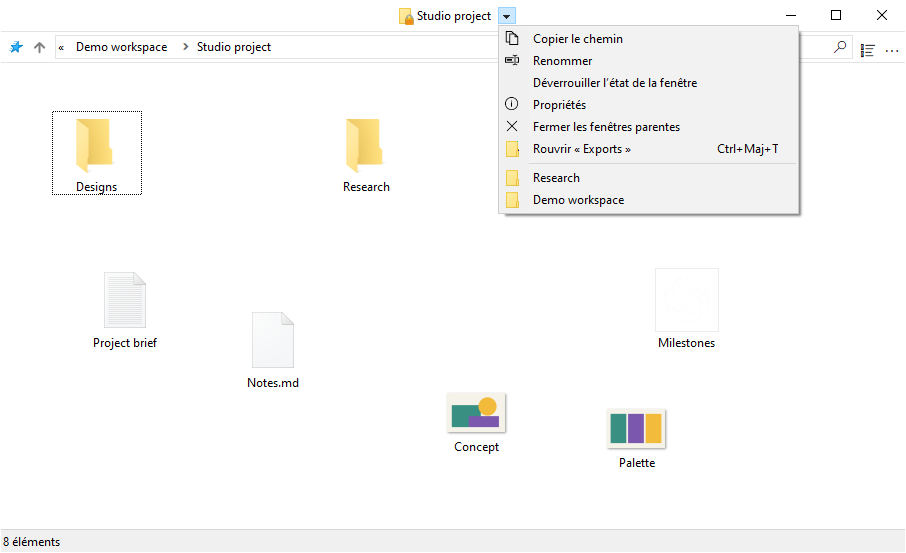
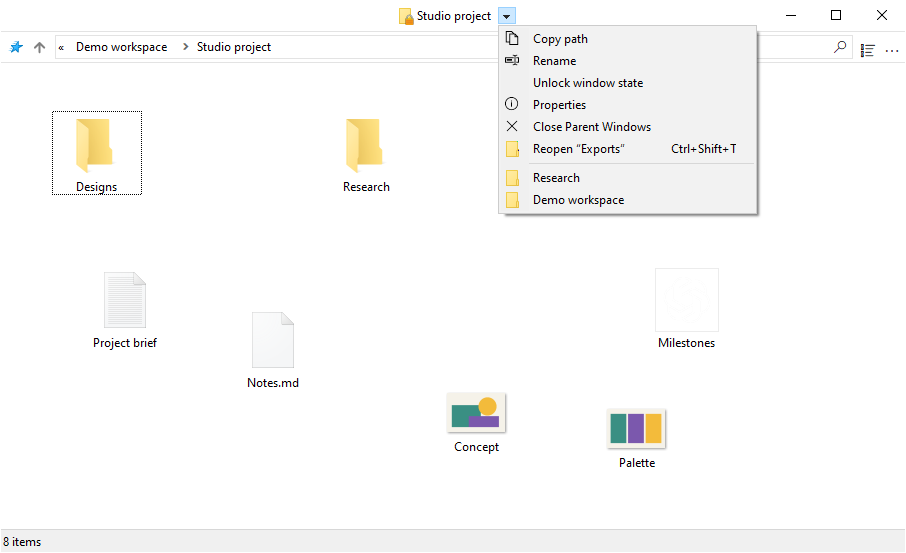
docs: Add bilingual window demos and a latest-release link.
Use English screenshots on the site and preserve the French originals. Add ScreenToGif move/resize demos in both languages, document the padlock badge with title close-ups, and link to the latest release from the site header.

Changed region(s): [[0.7417, 0.0615, 0.8962, 0.3996], [0.5872, 0.0615, 0.7726, 0.2767], [0.0, 0.953, 0.0618, 1.0]]

diff --git a/docs/user-guide.md b/docs/user-guide.md
@@ -69,6 +69,19 @@ Drag in the file area, on its background or an item, using these defaults:
 | Move the window | Alt + left drag |
 | Resize from the bottom-right corner | Alt + right drag |
 
+<details>
+<summary>See the gestures in action</summary>
+
+**Move the window — Alt + left drag**
+
+![Moving a folder window by holding Alt and dragging in the file area with the left mouse button.](images/move-window.gif)
+
+**Resize the window — Alt + right drag**
+
+![Resizing a folder window by holding Alt and dragging in the file area with the right mouse button.](images/resize-window.gif)
+
+</details>
+
 The selection is preserved. Escape cancels the gesture and restores the original
 geometry. Text fields, headers, scrollbars, toolbars and menus keep their normal
 behavior. Alt + double-click on an item opens its Properties.
@@ -91,11 +104,16 @@ the changes available to open FileSpacer windows.
 
 Enable **Settings > General > Enable window state locking** (off by default), then choose
 **Lock window state** in the menu beside a folder's title. Locking captures its
-position, size and view settings; a padlock identifies a locked folder.
+position, size and view settings. A **padlock badge on the folder icon in the
+title bar**, beside the folder name, identifies a locked layout.
+
+<img src="images/locked-title.png" alt="Close-up of the title bar: a padlock badge overlays the folder icon beside Studio project." width="420">
+
+*The padlock badge marks the saved layout as locked.*
 
 You can still move, resize and change the view temporarily. Reopening the folder
 restores the locked layout. Individual icon positions continue to save normally.
-**Unlock window state** keeps the current layout. The padlock can be hidden in
+**Unlock window state** keeps the current layout. The badge can be hidden in
 General settings without removing the lock.
 
 Disabling the feature asks for confirmation and removes all saved locks,
